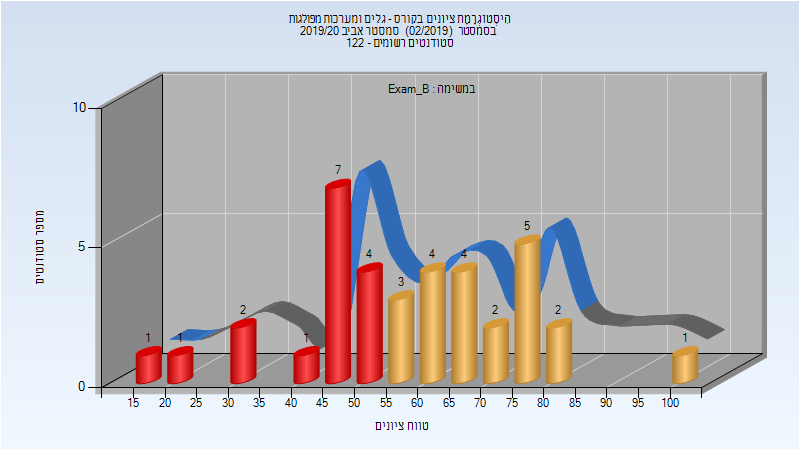
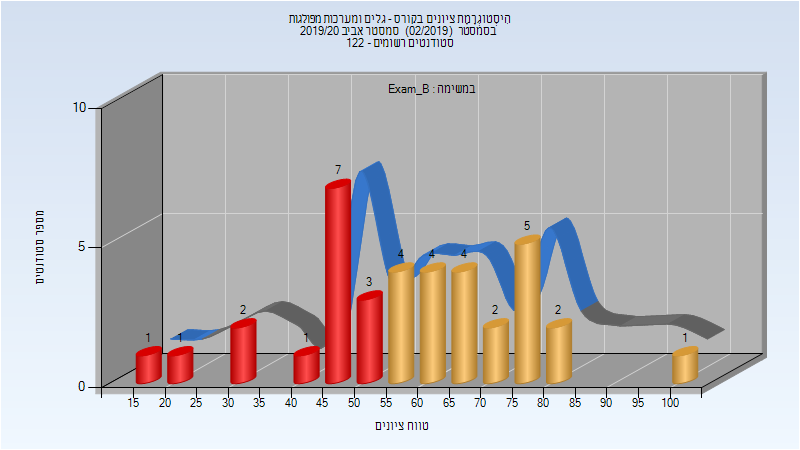
Deploy michael-maltsev/technion-histograms to github.com/michael-maltsev/technion-histograms.git:gh-pages

Changed region(s): [[0.4375, 0.3733, 0.625, 0.6844]]

diff --git a/044148/index.html b/044148/index.html
@@ -2206,11 +2206,11 @@
 <tbody>
 <tr>
 <td>37</td>
-<td>21/16</td>
-<td>57</td>
+<td>22/15</td>
+<td>59</td>
 <td>18</td>
 <td>101</td>
-<td>58.622</td>
+<td>58.73</td>
 <td>58</td>
 </tr>
 </tbody>
@@ -2236,7 +2236,7 @@
 <td>86</td>
 <td>26</td>
 <td>100</td>
-<td>66.108</td>
+<td>66.189</td>
 <td>66</td>
 </tr>
 </tbody>

diff --git a/044148/README.md b/044148/README.md
@@ -686,7 +686,7 @@
 
 | סטודנטים | עברו/נכשלו | אחוז עוברים | ציון מינימלי | ציון מקסימלי | ממוצע | חציון |
 | ---- | ---- | ---- | ---- | ---- | ---- | ---- |
-| 37 | 21/16 | 57 | 18 | 101 | 58.622 | 58 |
+| 37 | 22/15 | 59 | 18 | 101 | 58.73 | 58 |
 
 ### סופי מועד ב'
 
@@ -694,7 +694,7 @@
 
 | סטודנטים | עברו/נכשלו | אחוז עוברים | ציון מינימלי | ציון מקסימלי | ממוצע | חציון |
 | ---- | ---- | ---- | ---- | ---- | ---- | ---- |
-| 37 | 32/5 | 86 | 26 | 100 | 66.108 | 66 |
+| 37 | 32/5 | 86 | 26 | 100 | 66.189 | 66 |
 
 ### סופי
 
